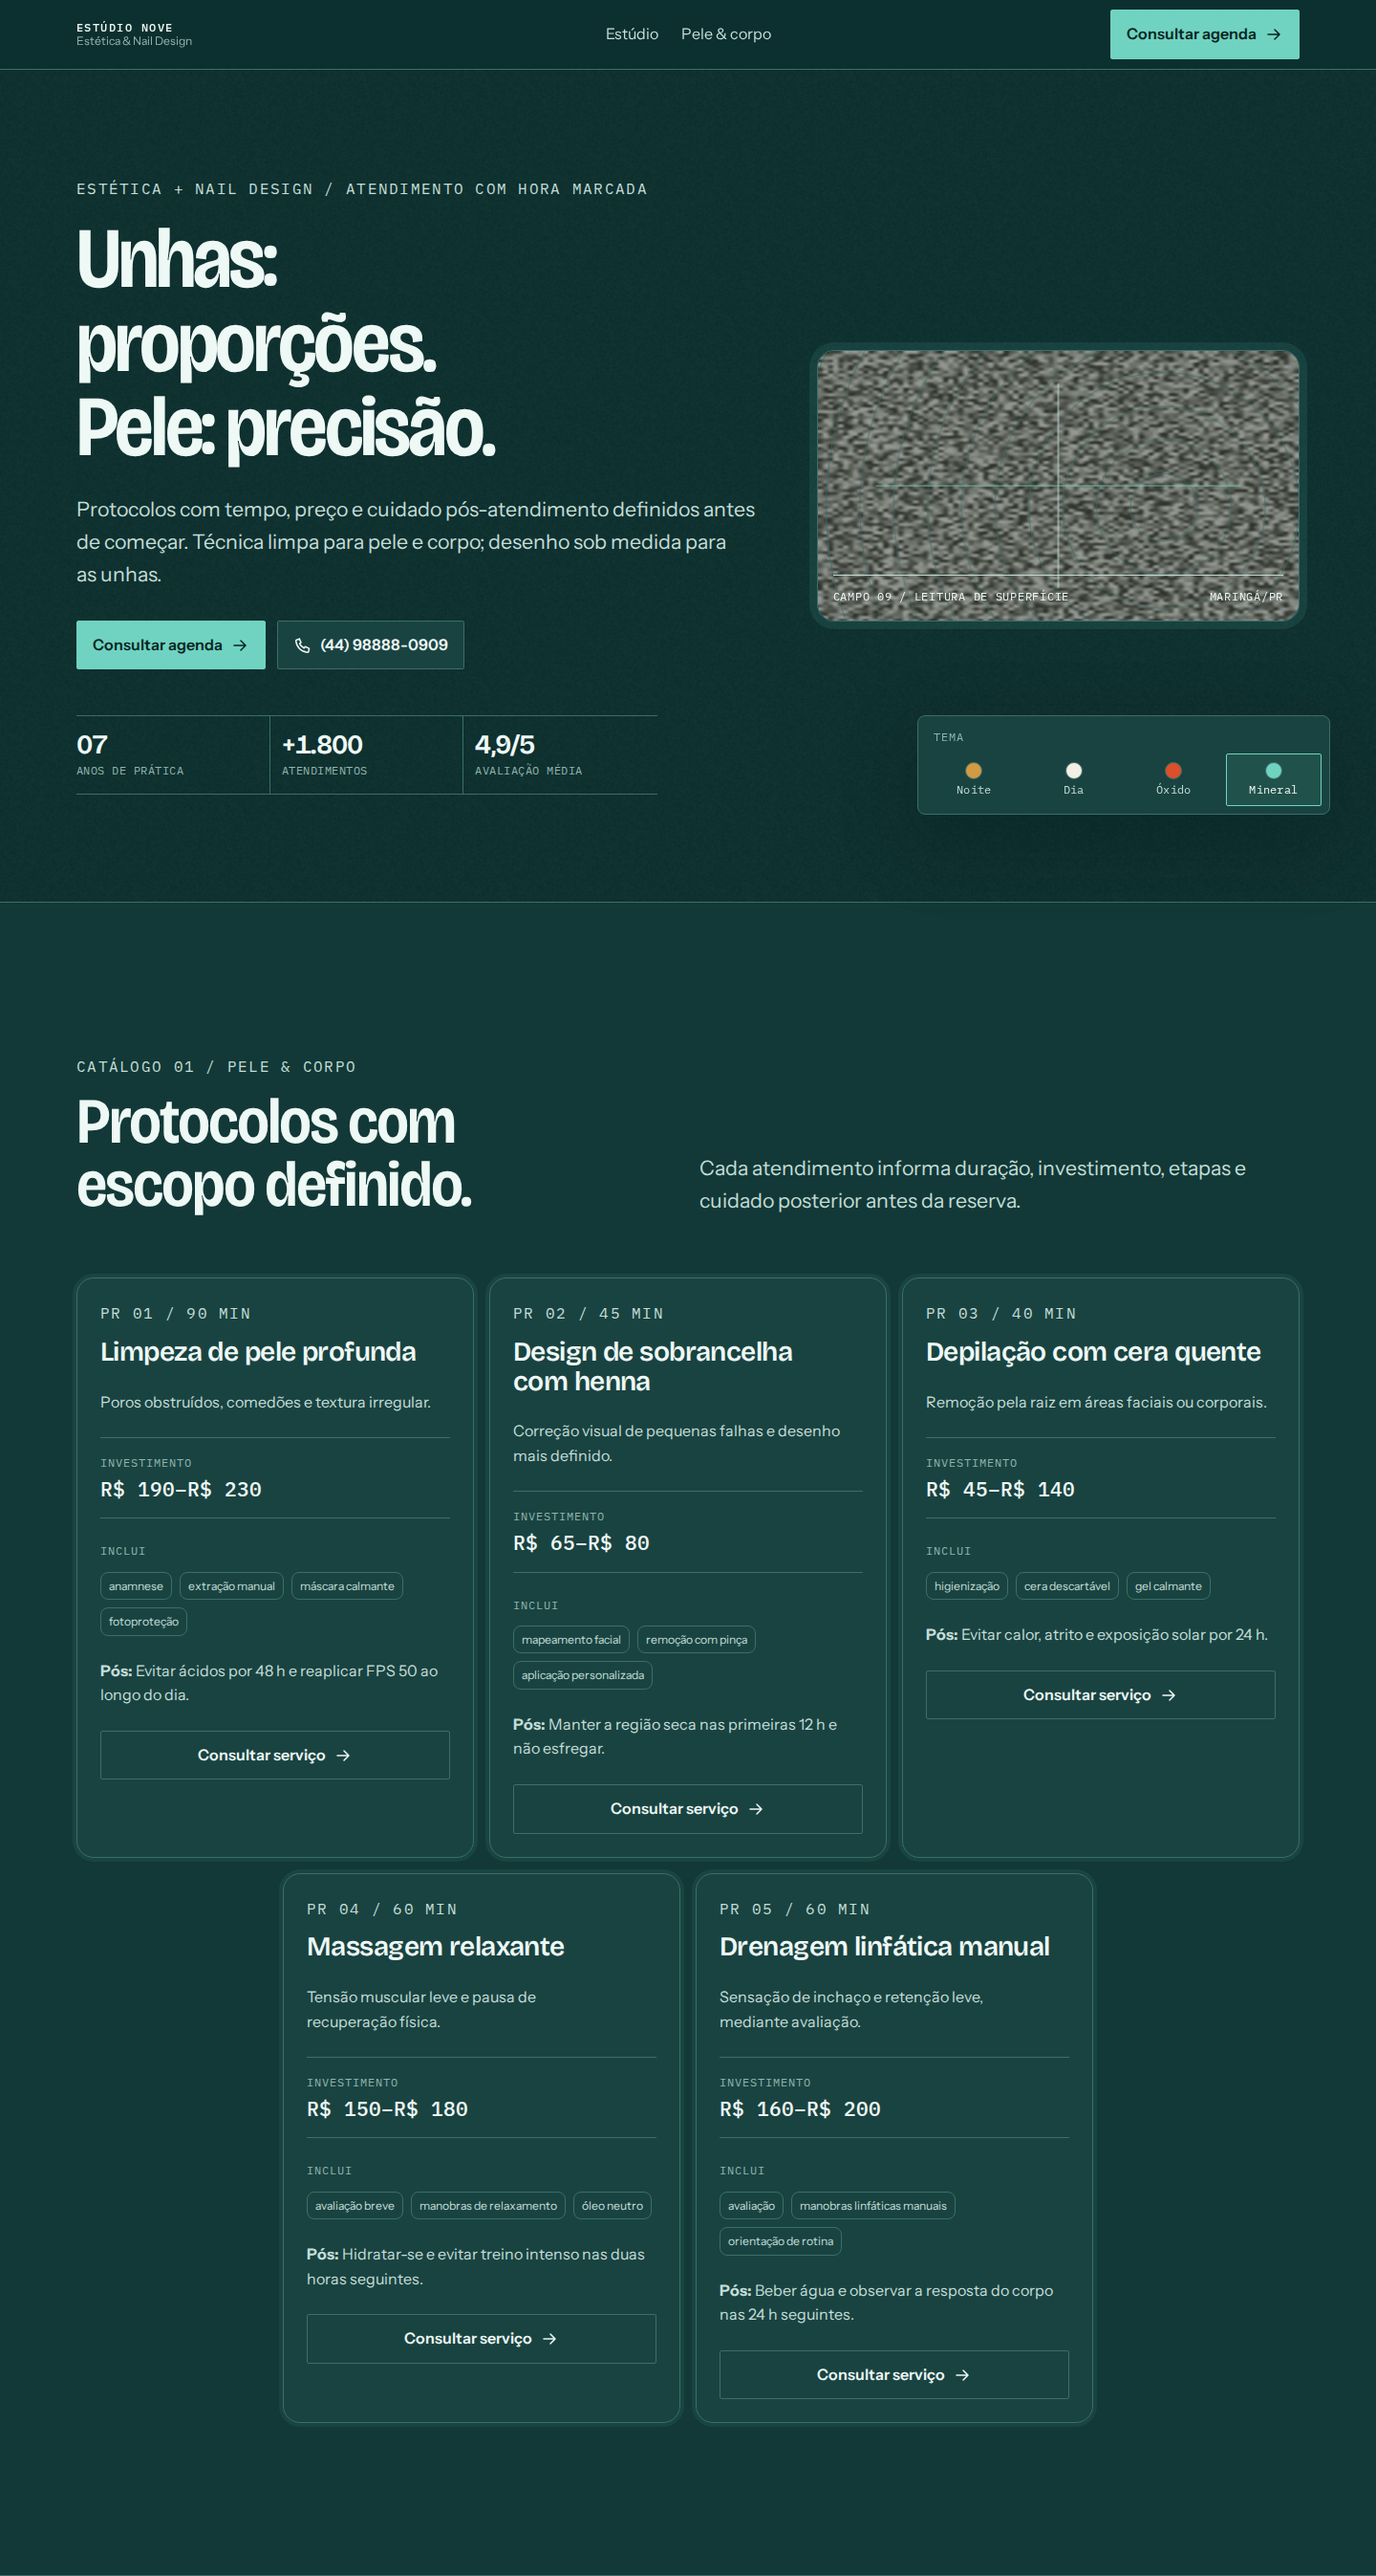
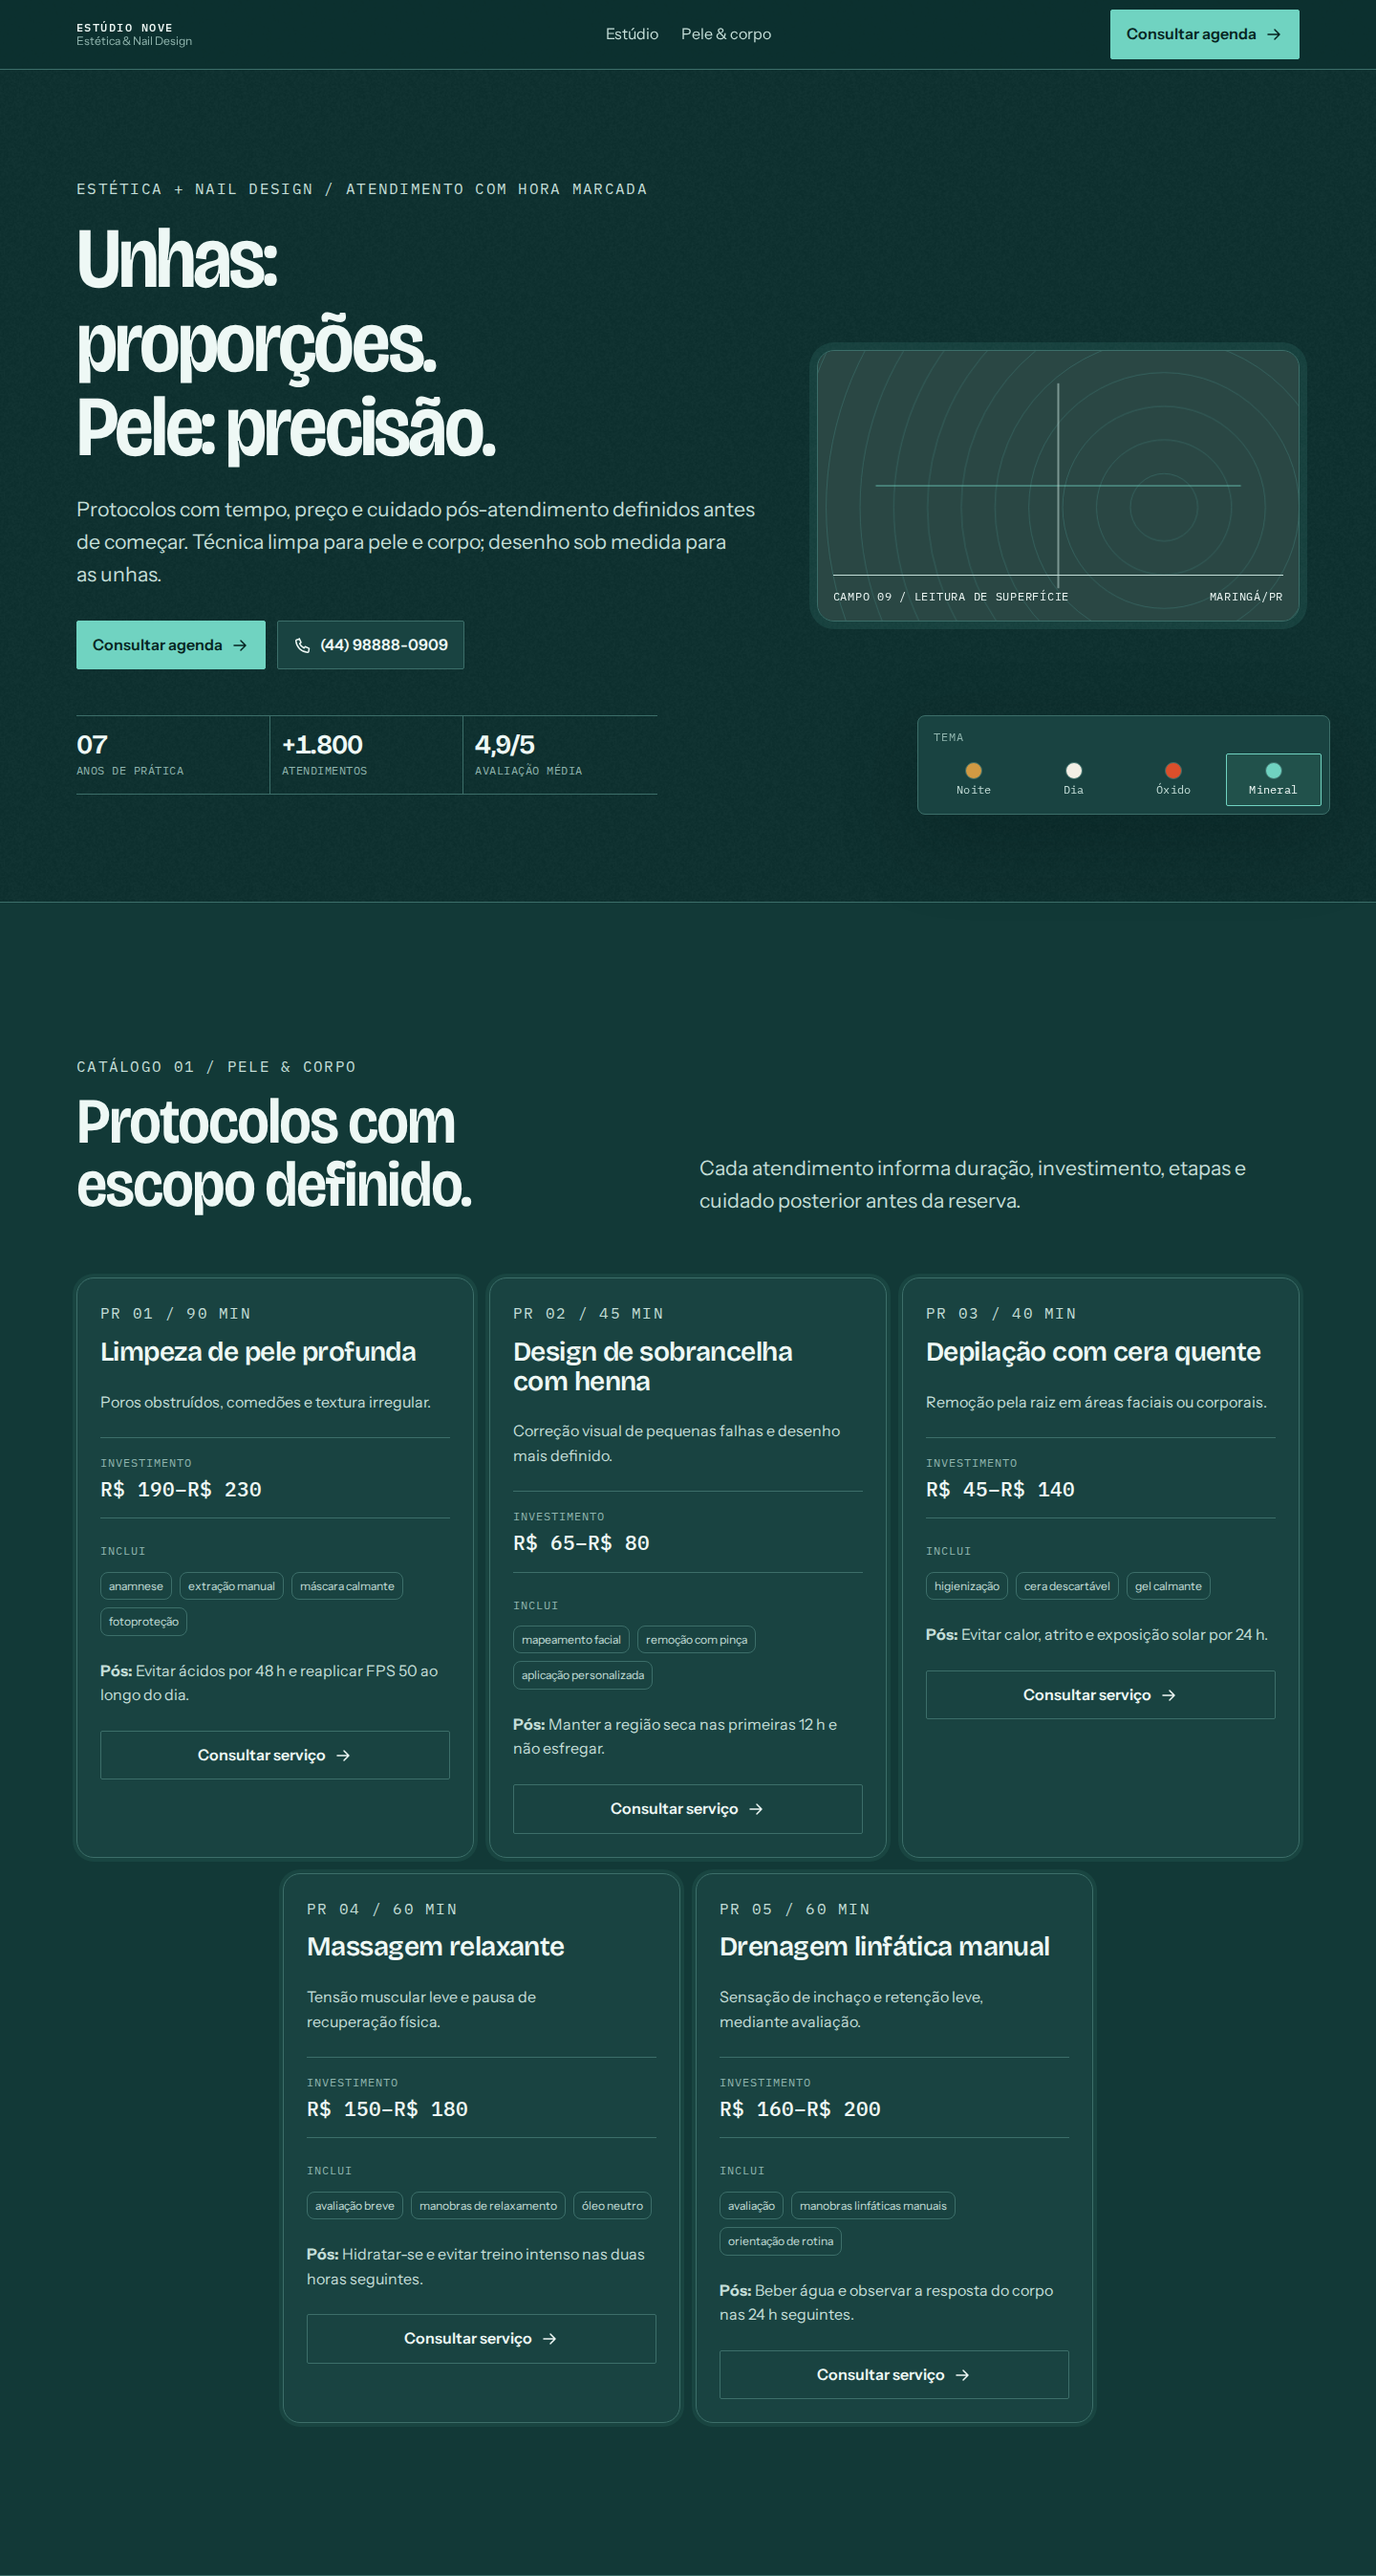
chore(verificacao): validar topo hero e serviços

Changed region(s): [[0.5938, 0.1247, 0.9688, 0.2494]]

diff --git a/src/components/secoes/Hero.tsx b/src/components/secoes/Hero.tsx
@@ -47,6 +47,7 @@ export function Hero() {
               priority
               sizes="(min-width: 48rem) 42vw, calc(100vw - 2 * var(--gutter))"
               src="/img/hero-retrato.webp"
+              unoptimized
             />
           </picture>
           <CanvasHero />

diff --git a/src/app/globals.css b/src/app/globals.css
@@ -394,6 +394,10 @@ a {
   inset: 0;
 }
 
+.hero__visual picture {
+  opacity: 0.28;
+}
+
 .hero__visual img {
   object-fit: cover;
 }

diff --git a/PLAN.md b/PLAN.md
@@ -115,9 +115,9 @@ Grades, rótulos técnicos e superfícies limpas mostram que pele e unhas recebe
     - [x] Manter toda informação disponível sem hover e habilitar rolagem suave somente quando movimento for permitido.
     - [x] Criar o único efeito contínuo no canvas 2D do hero, com DPR ≤ 1.5, aproximadamente 30fps, pausa fora da viewport/aba e cleanup no unmount.
 
-13. [ ] **Movimento reduzido e modo de captura**
-    - [ ] Sob `prefers-reduced-motion`, revelar tudo, remover transformações, reduzir transições a ≤ 80ms, desligar smooth scroll e desenhar um frame do canvas.
-    - [ ] Fazer `?shot=1` aplicar exatamente o comportamento reduzido, sem animação pendente para o robô fotógrafo.
+13. [x] **Movimento reduzido e modo de captura**
+    - [x] Sob `prefers-reduced-motion`, revelar tudo, remover transformações, reduzir transições a ≤ 80ms, desligar smooth scroll e desenhar um frame do canvas.
+    - [x] Fazer `?shot=1` aplicar exatamente o comportamento reduzido, sem animação pendente para o robô fotógrafo.
 
 14. [ ] **Restrições fechadas de performance**
     - [ ] Não combinar `filter: blur()` com transform animado.
